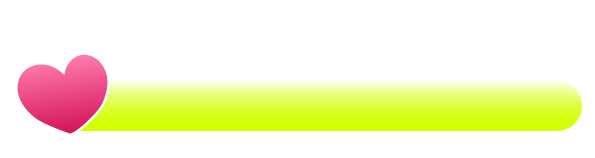
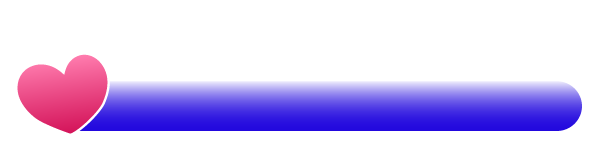
feat: entferne nicht verwendete Bilddateien und korrigiere die Syntax in der Schwimmanimation

Changed region(s): [[0.121, 0.5063, 0.9983, 0.8354]]

diff --git a/class/sharkie.class.js b/class/sharkie.class.js
@@ -81,11 +81,11 @@ class Sharkie extends MoveableObjects {
     ],
   };
 SWIM = {
-  SWIM_1 = ["assets/images/1.Sharkie/3.Swim/1.png", "assets/images/1.Sharkie/3.Swim/2.png", "assets/images/1.Sharkie/3.Swim/3.png", "assets/images/1.Sharkie/3.Swim/4.png", "assets/images/1.Sharkie/3.Swim/5.png", "assets/images/1.Sharkie/3.Swim/6.png"],
+  SWIM_1: ["assets/images/1.Sharkie/3.Swim/1.png", "assets/images/1.Sharkie/3.Swim/2.png", "assets/images/1.Sharkie/3.Swim/3.png", "assets/images/1.Sharkie/3.Swim/4.png", "assets/images/1.Sharkie/3.Swim/5.png", "assets/images/1.Sharkie/3.Swim/6.png"],
 
-  SWIM_2 = ["assets/images/1.Sharkie/3.Swim/1.png", "assets/images/1.Sharkie/3.Swim/2.png", "assets/images/1.Sharkie/3.Swim/3.png", "assets/images/1.Sharkie/3.Swim/5.png", "assets/images/1.Sharkie/3.Swim/6.png"],
+  SWIM_2: ["assets/images/1.Sharkie/3.Swim/1.png", "assets/images/1.Sharkie/3.Swim/2.png", "assets/images/1.Sharkie/3.Swim/3.png", "assets/images/1.Sharkie/3.Swim/5.png", "assets/images/1.Sharkie/3.Swim/6.png"],
 
-  SWIM_3 = ["assets/images/1.Sharkie/3.Swim/2.png", "assets/images/1.Sharkie/3.Swim/3.png", "assets/images/1.Sharkie/3.Swim/5.png", "assets/images/1.Sharkie/3.Swim/6.png"]
+  SWIM_3: ["assets/images/1.Sharkie/3.Swim/2.png", "assets/images/1.Sharkie/3.Swim/3.png", "assets/images/1.Sharkie/3.Swim/5.png", "assets/images/1.Sharkie/3.Swim/6.png"]
 };
 
   constructor() {